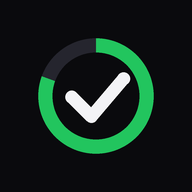
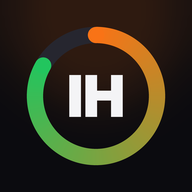
v1.19: marca IronHabits (reevaluación, trozo 3)
- Icono IH, pantallas de arranque de iOS y arranque animado con el anillo
- Color de marca, números redondeados, iconos SVG en franjas y avisos
- Plan en IndexedDB con migración
- Tests: tests/test_v119.py

Claude-Session: https://claude.ai/code/session_01Hq8mKxtEj4CsxQVPggt9k2

diff --git a/index.html b/index.html
@@ -11,8 +11,21 @@
 <meta name="apple-mobile-web-app-title" content="IronHabits">
 <title>IronHabits</title>
 <link rel="manifest" href="manifest.webmanifest">
-<link rel="apple-touch-icon" href="icon-192.png">
-<link rel="icon" href="icon-192.png">
+<link rel="apple-touch-icon" href="icon-180.png">
+<link rel="icon" type="image/png" href="favicon.png">
+<!-- Pantallas de arranque de iOS (al abrir desde la pantalla de inicio) -->
+<link rel="apple-touch-startup-image" media="(device-width: 360px) and (device-height: 780px) and (-webkit-device-pixel-ratio: 3) and (orientation: portrait)" href="splash/splash-1080x2340.png">
+<link rel="apple-touch-startup-image" media="(device-width: 375px) and (device-height: 812px) and (-webkit-device-pixel-ratio: 3) and (orientation: portrait)" href="splash/splash-1125x2436.png">
+<link rel="apple-touch-startup-image" media="(device-width: 390px) and (device-height: 844px) and (-webkit-device-pixel-ratio: 3) and (orientation: portrait)" href="splash/splash-1170x2532.png">
+<link rel="apple-touch-startup-image" media="(device-width: 393px) and (device-height: 852px) and (-webkit-device-pixel-ratio: 3) and (orientation: portrait)" href="splash/splash-1179x2556.png">
+<link rel="apple-touch-startup-image" media="(device-width: 402px) and (device-height: 874px) and (-webkit-device-pixel-ratio: 3) and (orientation: portrait)" href="splash/splash-1206x2622.png">
+<link rel="apple-touch-startup-image" media="(device-width: 414px) and (device-height: 736px) and (-webkit-device-pixel-ratio: 3) and (orientation: portrait)" href="splash/splash-1242x2208.png">
+<link rel="apple-touch-startup-image" media="(device-width: 414px) and (device-height: 896px) and (-webkit-device-pixel-ratio: 3) and (orientation: portrait)" href="splash/splash-1242x2688.png">
+<link rel="apple-touch-startup-image" media="(device-width: 428px) and (device-height: 926px) and (-webkit-device-pixel-ratio: 3) and (orientation: portrait)" href="splash/splash-1284x2778.png">
+<link rel="apple-touch-startup-image" media="(device-width: 430px) and (device-height: 932px) and (-webkit-device-pixel-ratio: 3) and (orientation: portrait)" href="splash/splash-1290x2796.png">
+<link rel="apple-touch-startup-image" media="(device-width: 440px) and (device-height: 956px) and (-webkit-device-pixel-ratio: 3) and (orientation: portrait)" href="splash/splash-1320x2868.png">
+<link rel="apple-touch-startup-image" media="(device-width: 375px) and (device-height: 667px) and (-webkit-device-pixel-ratio: 2) and (orientation: portrait)" href="splash/splash-750x1334.png">
+<link rel="apple-touch-startup-image" media="(device-width: 414px) and (device-height: 896px) and (-webkit-device-pixel-ratio: 2) and (orientation: portrait)" href="splash/splash-828x1792.png">
 <style>
 :root{
   --bg:#0A0A0D;--bg2:#111116;--card:#15151B;--card2:#1C1C24;--border:#25252E;
@@ -629,9 +642,46 @@ nav button svg{width:24px;height:24px}
 .cd-row span{flex:1;min-width:0}
 .cd-row i{color:var(--muted);font-weight:600}
 .wk-lbl.away small{display:inline-block;margin-top:2px;padding:2px 10px;border-radius:999px;background:color-mix(in srgb,var(--acc) 18%,transparent);color:var(--acc);font-weight:700}
+
+/* ═════════════ v1.19 · Marca IronHabits ═════════════
+   Verde = hecho. Naranja «forja» = la marca: rachas, celebración y el botón +. */
+:root{--brand:#F97316;--brand-press:#EA580C;--on-brand:#1A0A00;--num:ui-rounded,"SF Pro Rounded","SF Pro Display",-apple-system,system-ui,sans-serif}
+.icon-btn.acc{background:linear-gradient(135deg,#FB923C,var(--brand));border-color:transparent;color:var(--on-brand);box-shadow:0 4px 16px color-mix(in srgb,var(--brand) 40%,transparent)}
+.icon-btn.acc:active:not(:disabled){background:var(--brand-press)}
+.streak{display:inline-flex;align-items:center;gap:2px;color:var(--brand);font-weight:700;font-variant-numeric:tabular-nums}
+.streak svg{width:14px;height:14px;fill:color-mix(in srgb,var(--brand) 35%,transparent)}
+.kpi-streak b{display:flex;align-items:center;gap:4px;color:var(--brand)}
+.kpi-streak b svg{width:26px;height:26px;fill:color-mix(in srgb,var(--brand) 35%,transparent)}
+/* Números grandes en letra redondeada (como Apple Fitness) */
+.kpi b,.det-kpis b,.sum-ring b,.wd-r b,.cd-n,.acwr b,.dh-t b,.hl-pct,.rk-p,.bar em,.wk-row .vl b{font-family:var(--num);font-variant-numeric:tabular-nums}
+.sec-ic{display:inline-grid;place-items:center;width:18px;height:18px}
+.sec-ic svg{width:16px;height:16px}
+.cel-card{border-color:color-mix(in srgb,var(--brand) 45%,var(--border2));background:linear-gradient(160deg,color-mix(in srgb,var(--brand) 16%,var(--card3)),var(--card3))}
+.cel-big{color:var(--brand)}.cel-big svg{width:64px;height:64px;fill:color-mix(in srgb,var(--brand) 40%,transparent)}
+.all-done{background:color-mix(in srgb,var(--brand) 10%,var(--card));border-color:color-mix(in srgb,var(--brand) 30%,var(--border))}
+.banner .ri{width:32px;height:32px}
+
+/* ═════════════ Pantalla de arranque animada ═════════════ */
+#boot{position:fixed;inset:0;z-index:1000;background:#0B0B0F;pointer-events:none;transition:opacity .35s ease}
+#boot.out{opacity:0}
+.boot-logo{position:absolute;left:50%;top:40%;width:36vw;max-width:220px;height:auto;transform:translate(-50%,-50%)}
+#bootRing{transition:stroke-dashoffset .45s cubic-bezier(.2,.8,.2,1)}
+.boot-name{position:absolute;left:0;right:0;top:calc(40% + min(18vw,110px) + 6.8vw);text-align:center;color:#F4F4F6;font:900 7.5vw/1 -apple-system,"SF Pro Display",Inter,system-ui,sans-serif;letter-spacing:-.02em}
+@media (min-width:600px){.boot-name{font-size:44px}}
+@media (prefers-reduced-motion:reduce){#bootRing{transition:none}}
 </style>
 </head>
 <body>
+<!-- Pantalla de arranque animada: el anillo se llena mientras carga (sigue a la pantalla de arranque de iOS, en la misma posición) -->
+<div id="boot" aria-hidden="true">
+  <svg class="boot-logo" viewBox="0 0 120 120">
+    <defs><linearGradient id="bootG" x1="1" y1="0" x2="0" y2="1"><stop offset="0" stop-color="#F97316"/><stop offset="1" stop-color="#22C55E"/></linearGradient></defs>
+    <circle cx="60" cy="60" r="47" fill="none" stroke="#26262F" stroke-width="10"/>
+    <circle id="bootRing" cx="60" cy="60" r="47" fill="none" stroke="url(#bootG)" stroke-width="10" stroke-linecap="round" stroke-dasharray="295.3" stroke-dashoffset="295.3" transform="rotate(-90 60 60)"/>
+    <text x="60" y="61" text-anchor="middle" dominant-baseline="central" fill="#F4F4F6" font-size="38" font-weight="900" font-family="-apple-system,'SF Pro Display',Inter,system-ui,sans-serif" letter-spacing="-1">IH</text>
+  </svg>
+  <div class="boot-name">IronHabits</div>
+</div>
 <div id="app">
 
   <!-- HOY -->
@@ -691,8 +741,9 @@ nav button svg{width:24px;height:24px}
 
 <script>
 /* ═════════════ CONSTANTES ═════════════ */
-const APP_VERSION='1.18';
+const APP_VERSION='1.19';
 const CHANGELOG=[
+  ['1.19','19 nov 2026',['💪 Nueva identidad IronHabits: icono «IH» y pantalla de arranque con el anillo que se llena mientras carga','🔶 Color de marca naranja para el botón +, las rachas y la celebración','Números redondeados e iconos dibujados en franjas y avisos','Tu plan se guarda en un espacio más grande del móvil (IndexedDB), sin límite de 5 MB','Nueva dirección: amadorbinimelis-source.github.io/IronHabits']],
   ['1.18','19 nov 2026',['🧠 Hoy se ordena según la hora: lo que toca ahora va primero','Lo pendiente de antes sigue ahí, marcado como «aún pendiente»','✅ Lo que ya has hecho baja a «Hechos hoy», plegado al final','«Después» te enseña el siguiente hábito u obligación (sin comidas ni trayectos)','Cuenta atrás más clara y botón «Volver a hoy» cuando miras otro día']],
   ['1.17','19 nov 2026',['🛟 Eliminar, archivar o editar un hábito ahora se puede deshacer, y antes se guarda una copia automática','Copias automáticas: la primera y la última de cada día','Todos los botones (Restaurar, Quitar, filas del plan…) son fáciles de tocar','Una tarjeta deslizada ya no se cierra sola','Plan actualizado: arreglada una instrucción antigua de la guía de Inglés']],
   ['1.16','19 nov 2026',['📖 Guía completa de IronHabits: 16 temas con todo lo que puedes hacer y cómo funciona (total semanal, rachas, día flojo, agenda, carga de entreno, nube…)','Índice para ir directo a cualquier tema; está en Ajustes › Guía de la app']],
@@ -725,7 +776,8 @@ const OLD_KEYS={rutina_v1:'ironhabits_v1',rutina_plan_v1:'ironhabits_plan_v1',ru
 // Paleta afinada para fondo oscuro (mismo brillo percibido, sin colores chillones). Los hábitos ya creados conservan su color.
 const COLORS=['#22C55E','#4ADE80','#60A5FA','#2DD4BF','#A3E635','#FBBF24','#FB923C','#F87171','#F472B6','#C084FC','#818CF8','#94A3B8'];
 const EMOJIS=['💪','🥊','🏋','🏃','🚴','🏊','🧘','🤸','📚','🧠','✍','🎓','🇫🇷','🇬🇧','🗣','💧','🥗','🍎','💊','😴','🦷','🚿','🧴','🧹','📵','📈','💰','🎯','❤','🩺','🎸','☀','🌙','📝','🙏','🐾'];
-const MOMENTS=[['manana','☀ Por la mañana'],['tarde','🌤 Por la tarde'],['noche','🌙 Por la noche'],['any','En cualquier momento']];
+const MOMENTS=[['manana','Por la mañana'],['tarde','Por la tarde'],['noche','Por la noche'],['any','En cualquier momento']];
+const MOMENT_IC={manana:'sun',tarde:'sunset',noche:'moon',any:'clock'};
 const DOW_L=['D','L','M','X','J','V','S'];
 const DOW_N=['Domingo','Lunes','Martes','Miércoles','Jueves','Viernes','Sábado'];
 const WEEK_ORDER=[1,2,3,4,5,6,0];
@@ -758,6 +810,14 @@ const ICONS={
   key:'<circle cx="8" cy="15" r="4"/><path d="m11 12 9-9m-3 3 3 3m-5-1 2 2"/>',
   eject:'<path d="M5 15 12 6l7 9zM5 19h14"/>',
   check:'<path d="M5 12.5 9.5 17 19 7.5"/>',
+  sun:'<circle cx="12" cy="12" r="4"/><path d="M12 2v2M12 20v2M4.9 4.9l1.4 1.4M17.7 17.7l1.4 1.4M2 12h2M20 12h2M4.9 19.1l1.4-1.4M17.7 6.3l1.4-1.4"/>',
+  sunset:'<path d="M17 18a5 5 0 0 0-10 0M12 3v6m0 0-3-3m3 3 3-3M4.2 10.2l1.4 1.4M18.4 11.6l1.4-1.4M2 18h20M6 22h12"/>',
+  moon:'<path d="M20 14.5A8.5 8.5 0 1 1 9.5 4a7 7 0 0 0 10.5 10.5z"/>',
+  clock:'<circle cx="12" cy="12" r="9"/><path d="M12 7v5l3 2"/>',
+  flame:'<path d="M12 22c4 0 7-2.7 7-7 0-3.5-2.2-5.6-3.6-7.6-.4 1.8-1.4 3-2.4 3.6.3-3-1-6.3-3.6-8 .2 2.8-1 4.6-2.4 6.2C5.6 10.8 5 12.6 5 15c0 4.3 3 7 7 7z"/>',
+  phone:'<rect x="6" y="2.5" width="12" height="19" rx="3"/><path d="M11 18.5h2"/>',
+  alert:'<path d="M12 3 2 20h20zM12 10v4M12 17.5v.5"/>',
+  review:'<rect x="3" y="4.5" width="18" height="16.5" rx="3"/><path d="M3 9.5h18M8 2.5v4M16 2.5v4M8.5 15l2.3 2.3 4.7-4.6"/>',
   pen:'<path d="M4 20h4L19 9a2.8 2.8 0 0 0-4-4L4 16z"/><path d="m13.5 6.5 4 4"/>',
   move:'<path d="M3 12h13m0 0-4-4m4 4-4 4"/><rect x="18" y="5" width="3" height="14" rx="1.5"/>',
   note:'<path d="M6 3h9l4 4v14H6z"/><path d="M14 3v5h5M9 12h7M9 16h5"/>',
@@ -766,12 +826,28 @@ const ICONS={
   dots:'<circle cx="5" cy="12" r="1.5"/><circle cx="12" cy="12" r="1.5"/><circle cx="19" cy="12" r="1.5"/>',
 };
 function ic(n,sw=2){return `<svg viewBox="0 0 24 24" fill="none" stroke="currentColor" stroke-width="${sw}" stroke-linecap="round" stroke-linejoin="round" aria-hidden="true">${ICONS[n]||''}</svg>`;}
-const ICON_HUE={move:'var(--info)',note:'var(--warn)',chart:'#C084FC',edit:'var(--muted)',calendar:'var(--info)',calplus:'var(--info)',bell:'var(--info)',message:'var(--info)',cloud:'var(--info)',pause:'var(--warn)',lock:'var(--warn)',key:'var(--warn)',flask:'#C084FC',trash:'var(--danger)'};
+const ICON_HUE={sun:'var(--warn)',sunset:'var(--brand)',moon:'#A5B4FC',clock:'var(--muted)',flame:'var(--brand)',phone:'var(--info)',alert:'var(--warn)',review:'var(--info)',move:'var(--info)',note:'var(--warn)',chart:'#C084FC',edit:'var(--muted)',calendar:'var(--info)',calplus:'var(--info)',bell:'var(--info)',message:'var(--info)',cloud:'var(--info)',pause:'var(--warn)',lock:'var(--warn)',key:'var(--warn)',flask:'#C084FC',trash:'var(--danger)'};
 function ri(n){return `<span class="ri" style="--ic:${ICON_HUE[n]||'var(--acc)'}">${ic(n)}</span>`;}
 
 /* ═════════════ ESTADO ═════════════ */
 const SCHEMA=3;
-const PLAN_KEY='ironhabits_plan_v1'; // lo pesado (agenda y planes) va aparte y solo se guarda al cargar un plan
+const PLAN_KEY='ironhabits_plan_v1'; // (antiguo) el plan vivía en localStorage; ahora va en IndexedDB
+/* El plan (agenda y programas, lo pesado) se guarda en IndexedDB, que no tiene el límite de ~5 MB de localStorage.
+   En memoria se guarda una copia (PLANCACHE) para que load() siga siendo inmediato. */
+const PLAN_DB='ironhabits-plan';
+let PLANCACHE=null;try{PLANCACHE=JSON.parse(localStorage.getItem(PLAN_KEY)||'null');}catch(e){}
+function planDB(){return new Promise((res,rej)=>{if(!window.indexedDB)return rej(new Error('sin IndexedDB'));const r=indexedDB.open(PLAN_DB,1);
+  r.onupgradeneeded=()=>{if(!r.result.objectStoreNames.contains('kv'))r.result.createObjectStore('kv');};r.onsuccess=()=>res(r.result);r.onerror=()=>rej(r.error);});}
+async function planIDB(mode,val){const db=await planDB();return new Promise((res,rej)=>{const tx=db.transaction('kv',mode),st=tx.objectStore('kv');let out;
+  const q=mode==='readonly'?st.get('plan'):val===null?st.delete('plan'):st.put(val,'plan');q.onsuccess=()=>{out=q.result;};
+  tx.oncomplete=()=>{db.close();res(out);};tx.onerror=tx.onabort=()=>{db.close();rej(tx.error);};});}
+// Al arrancar: si el plan sigue en localStorage (versiones anteriores) se pasa a IndexedDB; si no, se lee de IndexedDB
+async function initPlan(){
+  try{
+    if(localStorage.getItem(PLAN_KEY)!==null){await planIDB('readwrite',PLANCACHE);localStorage.removeItem(PLAN_KEY);return;}
+    const P=await planIDB('readonly');if(P){PLANCACHE=P;mergePlanInto(S);}
+  }catch(e){}
+}
 const DEF={v:1,schema:SCHEMA,habits:[],logs:{},notes:{},settings:{accent:'#22C55E'},timer:null,agenda:{},agendaBase:{},agendaUntil:'',classesKnownUntil:'',pauses:[],minDays:{},reviews:{},checkins:{},mocks:[]};
 // Migraciones: cada versión del esquema añade lo que falta sin tocar los registros.
 function migrate(s){
@@ -785,17 +861,23 @@ function load(){
   let st=null;
   try{const s=JSON.parse(localStorage.getItem(KEY));if(s&&Array.isArray(s.habits))st=migrate(Object.assign(JSON.parse(JSON.stringify(DEF)),s,{schema:s.schema||1}));}catch(e){}
   st=st||JSON.parse(JSON.stringify(DEF));
-  try{const P=JSON.parse(localStorage.getItem(PLAN_KEY)||'null');
+  mergePlanInto(st);
+  return st;
+}
+function mergePlanInto(st){
+  try{const P=PLANCACHE;
     if(P){if(P.agendaBase&&!Object.keys(st.agendaBase||{}).length){st.agendaBase=P.agendaBase;st.agendaUntil=P.agendaUntil||'';st.classesKnownUntil=P.classesKnownUntil||'';}
       for(const h of st.habits){const x=(P.habits||{})[h.id];if(x){h.plan=h.plan||{};if(x.program&&!h.plan.program)h.plan.program=x.program;if(x.guide&&!h.guide)h.guide=x.guide;if(x.minimal&&!h.minimal)h.minimal=x.minimal;}}}
   }catch(e){}
-  return st;
 }
 const HEAVY=new Set(['agendaBase','program','guide','minimal']);
 function savePlan(){
   try{const P={agendaBase:S.agendaBase,agendaUntil:S.agendaUntil,classesKnownUntil:S.classesKnownUntil,habits:{}};
     for(const h of S.habits){const x={};if(h.plan&&h.plan.program)x.program=h.plan.program;if(h.guide)x.guide=h.guide;if(h.minimal)x.minimal=h.minimal;if(Object.keys(x).length)P.habits[h.id]=x;}
-    localStorage.setItem(PLAN_KEY,JSON.stringify(P));}catch(e){toast('⚠ No se pudo guardar el plan');}
+    PLANCACHE=P;
+    planIDB('readwrite',P).then(()=>{try{localStorage.removeItem(PLAN_KEY);}catch(e){}})
+      .catch(()=>{try{localStorage.setItem(PLAN_KEY,JSON.stringify(P));}catch(e){toast('⚠ No se pudo guardar el plan');}}); // sin IndexedDB: como antes
+  }catch(e){toast('⚠ No se pudo guardar el plan');}
 }
 let S=load();
 function save(){_wc=null;try{localStorage.setItem(KEY,JSON.stringify(S,(k,v)=>HEAVY.has(k)?undefined:v));}catch(e){toast('⚠ No se pudo guardar');}if(typeof cloudDirty==='function')cloudDirty();if(typeof snapSoon==='function')snapSoon();}
@@ -1157,7 +1239,7 @@ function habitSections(hs,k){
   for(const{m,past}of seq){
     const g=pend.filter(h=>momentFor(h,k)===m).sort((a,b)=>tt(a)-tt(b));if(!g.length)continue;
     const label=MOMENTS.find(x=>x[0]===m)[1];
-    html+=`<div class="sec ${past?'sec-late':''}">${label}${past?' · aún pendiente':''}</div>`+g.map(h=>hcHTML(h,k)).join('');
+    html+=`<div class="sec ${past?'sec-late':''}"><span class="sec-ic" style="color:${ICON_HUE[MOMENT_IC[m]]}">${ic(MOMENT_IC[m])}</span>${label}${past?' · aún pendiente':''}</div>`+g.map(h=>hcHTML(h,k)).join('');
   }
   if(!pend.length&&done.length&&k<=t)html+=`<div class="all-done">🔥 Todo hecho${isToday?' hoy':''}. ¡Bien!</div>`;
   if(done.length){
@@ -1171,15 +1253,15 @@ function habitSections(hs,k){
 function noticeList(k){
   const t=todayK();if(k!==t)return [];const out=[];const add=(prio,html)=>out.push({prio,html});
   const cc=cloudCfg();
-  if(cloudLegacy(cc))add(1,`<button class="banner warn" onclick="cloudMigrate()">🔒<div><b>Protege tus datos de la nube</b><small>Ahora el enlace del calendario podría llevar a tus datos. Se arregla en 1 toque.</small></div><span class="go">Arreglar ›</span></button>`);
-  else if(cc&&cc.resub)add(2,`<button class="banner warn" onclick="subscribeSheet()">📅<div><b>Vuelve a suscribir el calendario</b><small>Tu calendario tiene un enlace nuevo. Quita el antiguo para no verlo repetido.</small></div><span class="go">Abrir ›</span></button>`);
-  if(isIOS()&&!isStandalone())add(1,`<div class="banner warn">📲<div><b>Instálala en la pantalla de inicio</b><small>Abierta en Safari, iOS puede borrar tus datos si pasan 7 días sin usarla. Compartir › «Añadir a pantalla de inicio».</small></div></div>`);
-  const aw=acwr(t);if(aw.enough&&aw.r>1.5)add(1,`<button class="banner warn" onclick="closeSheet();go('prog')">⚠<div><b>Pico de carga de entreno (${aw.r.toFixed(2)})</b><small>Has subido mucho respecto a tus últimas 4 semanas. Baja intensidad o volumen unos días.</small></div></button>`);
+  if(cloudLegacy(cc))add(1,`<button class="banner warn" onclick="cloudMigrate()">${ri('lock')}<div><b>Protege tus datos de la nube</b><small>Ahora el enlace del calendario podría llevar a tus datos. Se arregla en 1 toque.</small></div><span class="go">Arreglar ›</span></button>`);
+  else if(cc&&cc.resub)add(2,`<button class="banner warn" onclick="subscribeSheet()">${ri('calplus')}<div><b>Vuelve a suscribir el calendario</b><small>Tu calendario tiene un enlace nuevo. Quita el antiguo para no verlo repetido.</small></div><span class="go">Abrir ›</span></button>`);
+  if(isIOS()&&!isStandalone())add(1,`<div class="banner warn">${ri('phone')}<div><b>Instálala en la pantalla de inicio</b><small>Abierta en Safari, iOS puede borrar tus datos si pasan 7 días sin usarla. Compartir › «Añadir a pantalla de inicio».</small></div></div>`);
+  const aw=acwr(t);if(aw.enough&&aw.r>1.5)add(1,`<button class="banner warn" onclick="closeSheet();go('prog')">${ri('alert')}<div><b>Pico de carga de entreno (${aw.r.toFixed(2)})</b><small>Has subido mucho respecto a tus últimas 4 semanas. Baja intensidad o volumen unos días.</small></div></button>`);
   const wd=dow(t),ws=weekStartK(t),rk=wd===0?ws:addDays(ws,-7);
-  if((wd===0||wd===1)&&!(S.reviews||{})[rk])add(2,`<button class="banner" onclick="reviewSheet('${rk}')">🗓<div><b>Revisión semanal · 2 min</b><small>Mira cómo ha ido la semana y qué viene</small></div><span class="go">Abrir ›</span></button>`);
-  const ag=S.agendaUntil;if(ag&&diffDays(t,ag)<=14&&diffDays(t,ag)>=0)add(2,`<div class="banner warn">📅<div><b>La agenda acaba el ${shortDate(ag)}</b><small>Pídeme el plan siguiente para no quedarte sin agenda.</small></div></div>`);
+  if((wd===0||wd===1)&&!(S.reviews||{})[rk])add(2,`<button class="banner" onclick="reviewSheet('${rk}')">${ri('review')}<div><b>Revisión semanal · 2 min</b><small>Mira cómo ha ido la semana y qué viene</small></div><span class="go">Abrir ›</span></button>`);
+  const ag=S.agendaUntil;if(ag&&diffDays(t,ag)<=14&&diffDays(t,ag)>=0)add(2,`<div class="banner warn">${ri('calplus')}<div><b>La agenda acaba el ${shortDate(ag)}</b><small>Pídeme el plan siguiente para no quedarte sin agenda.</small></div></div>`);
   const le=S.settings.lastExport,hasData=Object.keys(S.logs).length>3;
-  if(!(cc&&cc.gistId)&&hasData&&(!le||diffDays(le,t)>=7))add(3,`<button class="banner warn" onclick="backupSheet()">💾<div><b>Guarda una copia fuera del móvil</b><small>${le?`La última fue hace ${diffDays(le,t)} días`:'Aún no has hecho ninguna'} · o conecta la nube y se hace sola</small></div><span class="go">Hacer ›</span></button>`);
+  if(!(cc&&cc.gistId)&&hasData&&(!le||diffDays(le,t)>=7))add(3,`<button class="banner warn" onclick="backupSheet()">${ri('upload')}<div><b>Guarda una copia fuera del móvil</b><small>${le?`La última fue hace ${diffDays(le,t)} días`:'Aún no has hecho ninguna'} · o conecta la nube y se hace sola</small></div><span class="go">Hacer ›</span></button>`);
   return out.sort((a,b)=>a.prio-b.prio);
 }
 function banners(k){return noticeList(k).map(x=>x.html).join('');}
@@ -1210,7 +1292,7 @@ function metaText(h,k){
   if(e.min)parts.push('🪫 mínima');
   if(e.mins!=null&&h.type!=='time')parts.push(`⏱ ${fmtDur(e.mins)}`);
   if(e.m&&Object.keys(e.m).length)parts.push('📈');
-  const st=streaks(h);if(st.cur>0)parts.push(`🔥 ${st.cur}${st.unit==='sem'?' sem':''}`);
+  const st=streaks(h);if(st.cur>0)parts.push(`<span class="streak">${ic('flame')}${st.cur}${st.unit==='sem'?' sem':''}</span>`);
   return parts.join(' · ');
 }
 
@@ -1657,7 +1739,7 @@ function renderHab(){
     const st=streaks(h),r=habitRate(h,30),hm=heatCells(h,W,false);
     return `<button class="hl" style="--hc:${h.color}" onclick="openDetail('${h.id}')">
       <div class="hl-top"><span class="hc-ico sm">${esc(h.emoji)}</span>
-      <div class="hl-name"><div>${esc(h.name)}</div><div class="hl-sub">${schedText(h)}${targetText(h)?' · '+esc(targetText(h)):''}${st.cur?` · 🔥 ${st.cur}${st.unit==='sem'?' sem':''}`:''}</div></div>
+      <div class="hl-name"><div>${esc(h.name)}</div><div class="hl-sub">${schedText(h)}${targetText(h)?' · '+esc(targetText(h)):''}${st.cur?` · <span class="streak">${ic('flame')}${st.cur}${st.unit==='sem'?' sem':''}</span>`:''}</div></div>
       <span class="hl-pct">${r===null?'—':Math.round(r*100)+'%'}</span></div>
       <div class="hm" style="grid-template-columns:repeat(${W},1fr)">${hm.cells}</div></button>`;
   };
@@ -1872,9 +1954,9 @@ function renderStats(){
       <div class="kpi"><b>${today.done}/${today.total}</b><span>Hoy</span></div>
       <div class="kpi"><b>${pct(r7)}</b><span>Últimos 7 días</span></div>
       <div class="kpi"><b>${pct(r30)}</b><span>Últimos 30 días</span></div>
-      <div class="kpi"><b>${bestS&&bestS.cur?`🔥 ${bestS.cur}`:'—'}</b><span>${bestS&&bestS.cur?esc(bestS.h.emoji+' '+bestS.h.name):'Mejor racha actual'}</span></div>
+      <div class="kpi kpi-streak"><b>${bestS&&bestS.cur?`${ic('flame')}${bestS.cur}`:'—'}</b><span>${bestS&&bestS.cur?esc(bestS.h.emoji+' '+bestS.h.name):'Mejor racha actual'}</span></div>
     </div>
-    <button class="banner" onclick="reviewSheet()">🗓<div><b>Revisión de la semana</b><small>Qué ha ido bien, qué falló y qué viene</small></div><span class="go">Abrir ›</span></button>
+    <button class="banner" onclick="reviewSheet()">${ri('review')}<div><b>Revisión de la semana</b><small>Qué ha ido bien, qué falló y qué viene</small></div><span class="go">Abrir ›</span></button>
     <!--MAS-->
     <div class="sec">Cumplimiento por semana</div>
     <div class="card"><div class="bars">${bars}</div></div>
@@ -1969,7 +2051,7 @@ async function wipeAll(){
   const plan=hasPlan();
   if(!await ask(plan?'Se borra todo y se vuelve a cargar el plan inicial, como el primer día.':'Se borrarán TODOS los hábitos, registros y notas.','Borrar todo',true))return;
   await safetySnap('Antes de borrar todo');dropUndo();
-  S=JSON.parse(JSON.stringify(DEF));save();try{localStorage.removeItem(PLAN_KEY);}catch(e){}applyAccent();sel=todayK();go('hoy');
+  S=JSON.parse(JSON.stringify(DEF));save();try{localStorage.removeItem(PLAN_KEY);}catch(e){}PLANCACHE=null;planIDB('readwrite',null).catch(()=>{});applyAccent();sel=todayK();go('hoy');
   if(plan){await autoPlan();render();toast(S.habits.length?'Empiezas de cero con tu plan ✨':'Datos borrados · el plan se cargará cuando tengas conexión');}
   else toast('Datos borrados');
 }
@@ -2079,7 +2161,7 @@ function celebrate(k){
   const el=document.createElement('div');el.className='celebrate';el.setAttribute('role','status');
   const C=['#22C55E','#60A5FA','#FBBF24','#F472B6','#C084FC','#2DD4BF','#FB923C'];
   el.innerHTML=(reduce?'':Array.from({length:42},(_,i)=>`<i style="left:${Math.random()*100}%;background:${C[i%C.length]};animation-delay:${Math.random()*.35}s;animation-duration:${1.3+Math.random()*.9}s;transform:rotate(${Math.random()*360}deg)"></i>`).join(''))+
-    `<div class="cel-card"><div class="cel-big">🔥</div><b>¡Día completo!</b><small>${best&&best.cur>1?`Racha de ${best.cur} ${best.unit==='sem'?'semanas':'días'}. Sigue así.`:'Todo lo de hoy, hecho.'}</small></div>`;
+    `<div class="cel-card"><div class="cel-big">${ic('flame',1.8)}</div><b>¡Día completo!</b><small>${best&&best.cur>1?`Racha de ${best.cur} ${best.unit==='sem'?'semanas':'días'}. Sigue así.`:'Todo lo de hoy, hecho.'}</small></div>`;
   document.body.appendChild(el);buzz();setTimeout(()=>buzz(),180);
   el.addEventListener('click',()=>el.remove());setTimeout(()=>{el.classList.add('out');setTimeout(()=>el.remove(),400);},2600);
 }
@@ -2926,10 +3008,23 @@ addEventListener('keydown',e=>{if(e.key==='Escape')closeSheet();});
 })();
 swipeWeek($('#wkDays'));swipeWeek($('#agWeek'));
 if(S._needPlanSave){delete S._needPlanSave;savePlan();save();}
+/* ═════════════ ARRANQUE ═════════════
+   El anillo del logo se llena por etapas (código listo → plan cargado → listo) y la pantalla se desvanece.
+   No espera a internet: la sincronización sigue por detrás. */
+const BOOT_T0=performance.now();
+function bootProgress(p){const r=document.getElementById('bootRing');if(r)r.style.strokeDashoffset=String(295.3*(1-Math.max(0,Math.min(1,p))));}
+let _booted=false;
+function bootDone(){if(_booted)return;_booted=true;bootProgress(1);const b=document.getElementById('boot');if(!b)return;
+  const wait=Math.max(0,650-(performance.now()-BOOT_T0)); // que se vea el anillo completo un instante
+  setTimeout(()=>{b.classList.add('out');setTimeout(()=>b.remove(),400);},wait+450);}
+requestAnimationFrame(()=>bootProgress(.35));
+setTimeout(bootDone,3000); // por si algo tarda: nunca bloquea la app
+
+const _planReady=initPlan();_planReady.then(()=>{render();bootProgress(.75);requestAnimationFrame(()=>setTimeout(bootDone,120));});
 render();
 askPersist();
 if((S.settings.guideV||0)<GUIDE_V&&!navigator.webdriver)setTimeout(()=>{if(!$('#sheet').classList.contains('on')){welcomeSheet(0);guideSeen();}},900);
-migrateSnaps().then(()=>autoPlan()).then(()=>cloudPull()).then(()=>snapSoon());
+_planReady.then(()=>migrateSnaps()).then(()=>autoPlan()).then(()=>cloudPull()).then(()=>snapSoon());
 if('serviceWorker' in navigator&&location.protocol.startsWith('http'))navigator.serviceWorker.register('sw.js').catch(()=>{});
 </script>
 </body>

diff --git a/sw.js b/sw.js
@@ -2,8 +2,8 @@
 // - La app (index.html) y el plan: red primero, pero si en 3 s no responde se abre lo guardado (mala cobertura = app al instante).
 // - Iconos y manifest: lo guardado al momento y se actualiza por detrás.
 // - Solo se guardan respuestas correctas de esta web; las llamadas a GitHub (nube) no pasan por aquí.
-const CACHE = 'ironhabits-v14';
-const ASSETS = ['./', './index.html', './manifest.webmanifest', './icon-192.png', './icon-512.png', './plan.json'];
+const CACHE = 'ironhabits-v15';
+const ASSETS = ['./', './index.html', './manifest.webmanifest', './icon-180.png', './icon-192.png', './icon-512.png', './favicon.png', './plan.json'];
 const TIMEOUT = 3000;
 
 self.addEventListener('install', e => {

diff --git a/tests/test_v119.py b/tests/test_v119.py
@@ -1,0 +1,53 @@
+"""Pruebas de la v1.19 (reevaluación, trozo 3: marca IronHabits): iconos, arranque de iOS, manifest, plan en IndexedDB
+(con migración desde localStorage) y estilo de marca."""
+import asyncio, json, sys
+from playwright.async_api import async_playwright
+URL = "http://localhost:8765/index.html"
+fails = []
+def check(c, m):
+    print(("  ✓ " if c else "  ✗ ") + m)
+    if not c: fails.append(m)
+
+async def main():
+    async with async_playwright() as p:
+        b = await p.chromium.launch(executable_path="/usr/bin/google-chrome")
+        ctx = await b.new_context(**p.devices["iPhone 13"], timezone_id="Europe/Madrid")
+        await ctx.add_init_script("Object.defineProperty(navigator,'standalone',{get:()=>true})")
+        pg = await ctx.new_page(); await pg.clock.install(time="2026-11-24T19:30:00+01:00")
+        errs = []; pg.on("pageerror", lambda e: errs.append(str(e)))
+        await pg.goto(URL, wait_until="domcontentloaded")
+        r0 = await pg.evaluate("[!!document.getElementById('boot'),getComputedStyle(document.getElementById('boot')).pointerEvents]")
+        await pg.wait_for_timeout(2000)
+        r1 = await pg.evaluate("[!!document.getElementById('boot'),document.getElementById('bootRing')?document.getElementById('bootRing').style.strokeDashoffset:'']")
+        check(r0 == [True, "none"] and r1[0] is False, f"pantalla de arranque con el anillo: aparece, no bloquea toques y se va sola ({r0}, {r1})")
+        # Iconos y arranque
+        r = await pg.evaluate("""Promise.all(['icon-180.png','icon-192.png','icon-512.png','icon-maskable-512.png','favicon.png'].map(u=>new Promise(res=>{const i=new Image();i.onload=()=>res(u+':'+i.naturalWidth);i.onerror=()=>res(u+':error');i.src=u;})))""")
+        check(r == ["icon-180.png:180", "icon-192.png:192", "icon-512.png:512", "icon-maskable-512.png:512", "favicon.png:64"], f"iconos con su tamaño {r}")
+        r = await pg.evaluate("[document.querySelector('link[rel=apple-touch-icon]').getAttribute('href'),[...document.querySelectorAll('link[rel=apple-touch-startup-image]')].map(l=>l.getAttribute('href'))]")
+        ok = await pg.evaluate("(hrefs)=>Promise.all(hrefs.map(u=>fetch(u).then(r=>r.ok)))", r[1])
+        check(r[0] == "icon-180.png" and len(r[1]) >= 10 and all(ok), f"icono de iPhone de 180 px y {len(r[1])} pantallas de arranque")
+        m = await pg.evaluate("fetch('manifest.webmanifest').then(r=>r.json())")
+        check(m.get("id") == "./" and any(i["purpose"] == "maskable" for i in m["icons"]) and all(i["purpose"] in ("any", "maskable") for i in m["icons"]), "manifest con id e icono maskable aparte")
+        # Plan en IndexedDB
+        r = await pg.evaluate("planIDB('readonly').then(P=>({idb:!!(P&&P.agendaBase),ls:localStorage.getItem(PLAN_KEY),prog:!!getH('en').plan.program}))")
+        check(r["idb"] and r["ls"] is None and r["prog"], f"el plan se guarda en IndexedDB y no en localStorage {r}")
+        # Migración: plan antiguo en localStorage → IndexedDB
+        await pg.evaluate("planIDB('readonly').then(P=>{localStorage.setItem(PLAN_KEY,JSON.stringify(P));return planIDB('readwrite',null)})")
+        await pg.reload(); await pg.wait_for_timeout(2000)
+        r = await pg.evaluate("planIDB('readonly').then(P=>({idb:!!(P&&P.agendaBase),ls:localStorage.getItem(PLAN_KEY),prog:!!getH('en').plan.program,ag:Object.keys(S.agendaBase).length}))")
+        check(r["idb"] and r["ls"] is None and r["prog"] and r["ag"] > 100, f"un plan guardado por una versión anterior pasa solo a IndexedDB {r}")
+        # Tras recargar, el plan sigue (lectura desde IndexedDB)
+        await pg.reload(); await pg.wait_for_timeout(2000)
+        r = await pg.evaluate("({prog:!!getH('en').plan.program,ag:Object.keys(S.agendaBase).length,evs:dayEvents(todayK()).length})")
+        check(r["prog"] and r["ag"] > 100 and r["evs"] > 3, f"al volver a abrir, el plan y la agenda se cargan desde IndexedDB {r}")
+        # Marca
+        await pg.evaluate("(S.logs[addDays(todayK(),-1)]={}).fr={v:0,steps:getH('fr').steps.map(s=>s.id)};save();go('hoy')"); await pg.wait_for_timeout(300)
+        r = await pg.evaluate("({plus:getComputedStyle(document.querySelector('#v-hoy .icon-btn.acc')).backgroundImage,secs:[...document.querySelectorAll('#hoyBody .sec:not(.sec-btn)')].map(s=>s.textContent.trim()),ic:document.querySelectorAll('#hoyBody .sec .sec-ic svg').length})")
+        check("gradient" in r["plus"] and r["ic"] >= 1 and not any(ch in "".join(r["secs"]) for ch in "☀🌤🌙"), f"botón + de marca y franjas con iconos dibujados {r['secs'][:2]}")
+        r = await pg.evaluate("[...document.querySelectorAll('#hoyBody .banner, #sheetBody .banner')].map(b=>b.firstElementChild&&b.firstElementChild.className)")
+        check(all(x == "ri" for x in r), f"los avisos usan iconos dibujados {r}")
+        check(not errs, f"sin errores de JavaScript {errs[:2]}")
+        await b.close()
+
+asyncio.run(main())
+print("\nRESULTADO:", "OK" if not fails else f"{len(fails)} fallos"); sys.exit(1 if fails else 0)

diff --git a/tests/test_app.py b/tests/test_app.py
@@ -75,8 +75,8 @@ async def main():
         r = await pg.evaluate("planFor(getH('fuerza'),'2026-11-25').tag")
         check("completa" in (r or ""), f"clase anulada: fuerza usa la sesión completa ({r})")
         # 12. Guardado ligero: la clave principal es pequeña y el plan va aparte
-        sz = await pg.evaluate("({main:localStorage.getItem('ironhabits_v1').length, plan:(localStorage.getItem('ironhabits_plan_v1')||'').length})")
-        check(sz["main"] < 60000 and sz["plan"] > 200000, f"guardado ligero: principal {sz['main']} B, plan {sz['plan']} B")
+        sz = await pg.evaluate("planIDB('readonly').then(P=>({main:localStorage.getItem('ironhabits_v1').length, plan:JSON.stringify(P||{}).length, ls:localStorage.getItem('ironhabits_plan_v1')}))")
+        check(sz["main"] < 60000 and sz["plan"] > 200000 and sz["ls"] is None, f"guardado ligero: principal {sz['main']} B en localStorage, plan {sz['plan']} B en IndexedDB")
         await pg.reload(); await pg.wait_for_timeout(1200)
         check(await pg.evaluate("!!S.agendaBase['2026-11-23'] && !!getH('en').plan.program && !!getH('en').guide"), "guardado ligero: al recargar se recupera agenda, plan y guías")
         # 13. Versión mínima

diff --git a/tests/test_v113.py b/tests/test_v113.py
@@ -31,7 +31,7 @@ async def main():
         n = await pg.evaluate("document.querySelectorAll('#hoyBody > .banner, #hoyBody > .now-card, #hoyBody > .card:not(.wk-card):not(.note):not(.empty)').length")
         check(n <= 1, f"una sola tarjeta destacada arriba ({n})")
         r = await pg.evaluate("[document.querySelectorAll('#hoyBody .sec')[0].textContent, !!document.querySelector('.wk-card'), !document.querySelector('.wk-card .wk-row')]")
-        check(r[0].startswith(("☀ Por la", "🌤 Por la", "🌙 Por la", "En cualquier")) and r[1] and r[2], f"franjas «Por la…» y total semanal plegado {r[0]}")
+        check(r[0].startswith(("Por la", "En cualquier")) and r[1] and r[2], f"franjas «Por la…» y total semanal plegado {r[0]}")
         await pg.evaluate("S.reviews={};S.settings.lastExport=null;for(let i=1;i<6;i++)S.logs[addDays(todayK(),-i)]={fr:{v:0,steps:[]}};save();render()")
         r = await pg.evaluate("[!document.querySelector('#hoyBell').hidden, document.querySelector('#hoyBellN').textContent]")
         check(r[0] and int(r[1] or 0) >= 1, f"la campana guarda el resto de avisos ({r[1]})")

diff --git a/CHANGELOG.md b/CHANGELOG.md
@@ -2,6 +2,15 @@
 
 Hasta la v1.14 la app se llamaba «Rutina».
 
+## v1.19 · 19 nov 2026 · Reevaluación, trozo 3: marca IronHabits
+- Iconos «IH» (`icon-180/192/512.png`, `icon-maskable-512.png`, `favicon.png`) y 12 pantallas de arranque de iOS (`splash/`), generados con anillo vacío para enlazar con la animación.
+- Pantalla de arranque animada (`#boot`): el anillo se llena por etapas (código, plan cargado, listo) y se desvanece; máx. 3 s, no bloquea toques, respeta reduced motion.
+- Manifest con `id` e icono maskable aparte; service worker `ironhabits-v15`.
+- Marca: `--brand:#F97316` en el botón +, rachas (llama SVG), celebración y «Todo hecho»; números en `ui-rounded`; iconos SVG en franjas (`MOMENT_IC`) y avisos.
+- R7: el plan pesado pasa de localStorage a IndexedDB (`ironhabits-plan`, `PLANCACHE`, `initPlan`), con migración y respaldo en localStorage si no hay IndexedDB.
+- Repositorio y web renombrados a IronHabits.
+- Tests: `tests/test_v119.py`.
+
 ## v1.18 · 19 nov 2026 · Reevaluación, trozo 2: Hoy inteligente
 - `habitSections`: hoy, la franja actual primero, luego las siguientes y «En cualquier momento», después lo pendiente de franjas pasadas («aún pendiente») y «Hechos hoy (n)» plegable (`OPEN['done:'+k]`). Los demás días, franjas en orden y lo hecho al final.
 - `nowCard`: «Después» = siguiente hábito u obligación; «Ahora» ignora el tiempo libre.

diff --git a/README.md b/README.md
@@ -8,6 +8,6 @@ PWA personal de hábitos con el plan exacto de cada día (entreno, francés, ing
 - **Plan:** `plan.json`, generado con `python gen/build_plan.py`.
 - **Calendario:** `ironhabits.ics`, generado con `python gen/build_ics.py` (no se sube: lo crea la publicación).
 - **Pruebas:** `python tests/test_agenda.py` y `python tests/test_app.py` (necesita un servidor en el puerto 8765).
-- **Publicación:** cada push a `main` pasa las pruebas y publica en GitHub Pages a través de la rama `gh-pages` (`.github/workflows/publicar.yml`). Web: https://amadorbinimelis-source.github.io/Rutina/
+- **Publicación:** cada push a `main` pasa las pruebas y publica en GitHub Pages a través de la rama `gh-pages` (`.github/workflows/publicar.yml`). Web: https://amadorbinimelis-source.github.io/IronHabits/
 
 Historial de cambios: `CHANGELOG.md`.
